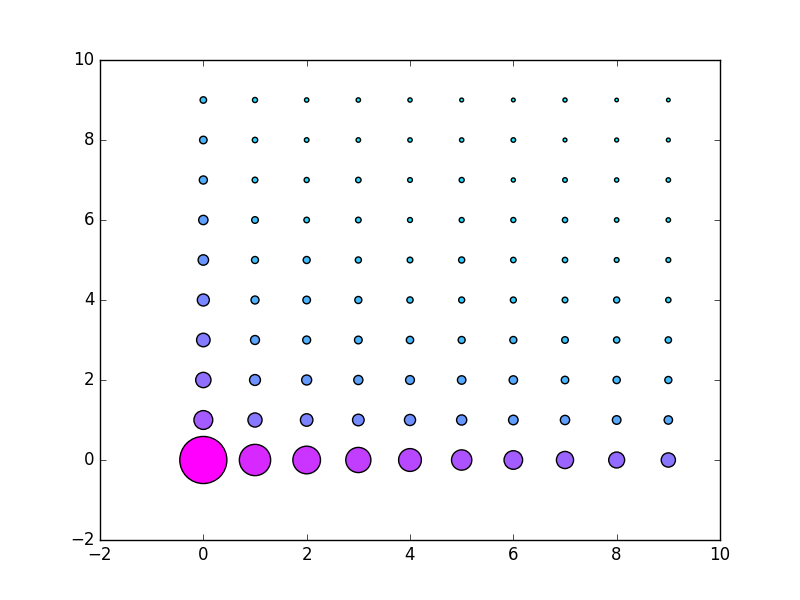
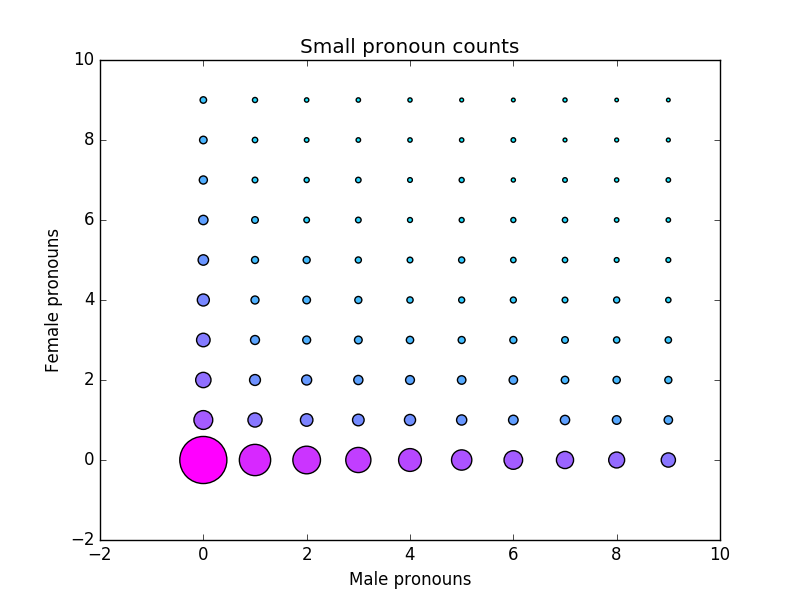
edited scatterplot

Changed region(s): [[0.375, 0.06, 0.6562, 0.09], [0.0625, 0.39, 0.0938, 0.63], [0.4375, 0.96, 0.5938, 0.99]]

diff --git a/data science project/project.py b/data science project/project.py
@@ -111,10 +111,13 @@ for i in range(numscatter):
         c[i*numscatter+j]=math.log(float(countsarray[i][j])+1)
         s[i*numscatter+j]=float(countsarray[i][j])/10
 plt.scatter(x,y,s=s,c=c,cmap='cool')
+plt.xlabel('Male pronouns')
+plt.ylabel('Female pronouns')
+plt.title('Small pronoun counts')
 pylab.savefig('coolscatter.png')
 
-plt.scatter(x,y,s=s,c=c,cmap='hot')
-pylab.savefig('hotscatter.png')
+#plt.scatter(x,y,s=s,c=c,cmap='hot')
+#pylab.savefig('hotscatter.png')
 
 #Plotting all titles
 n_groups = 4
